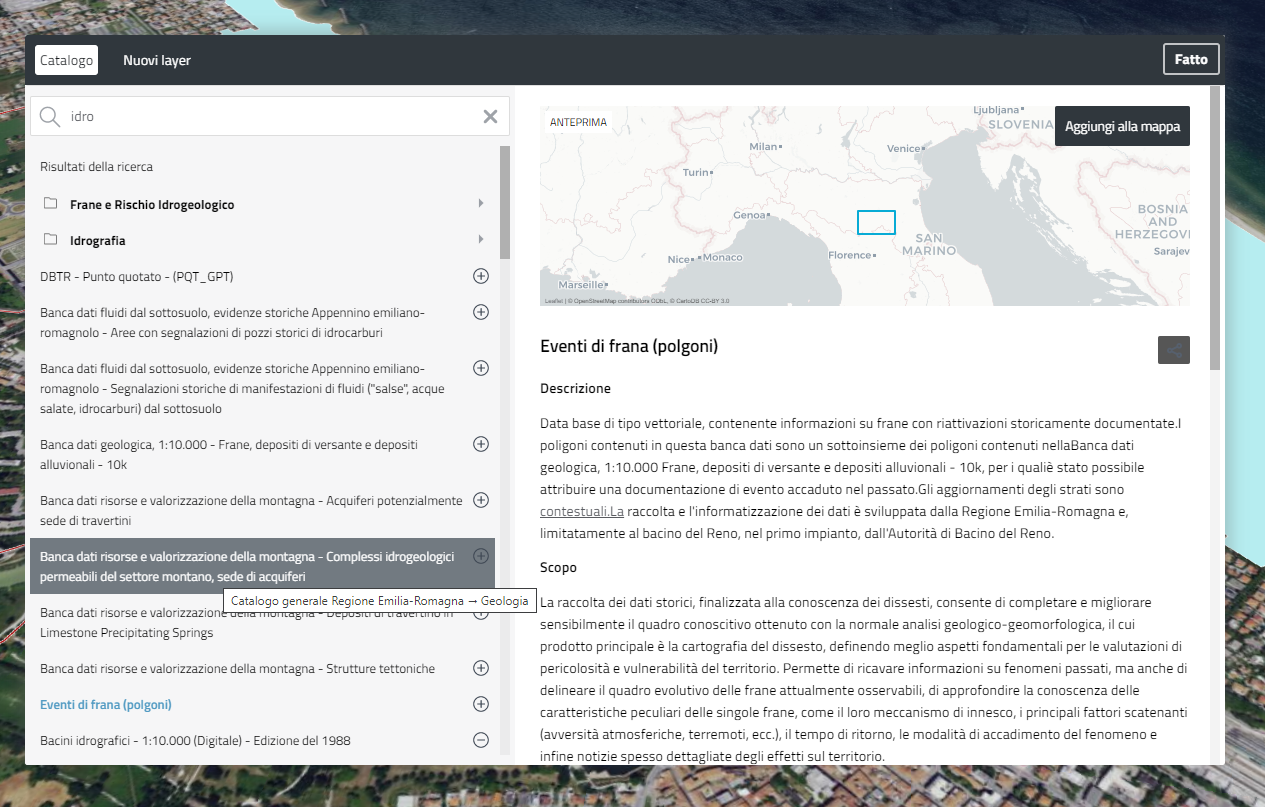
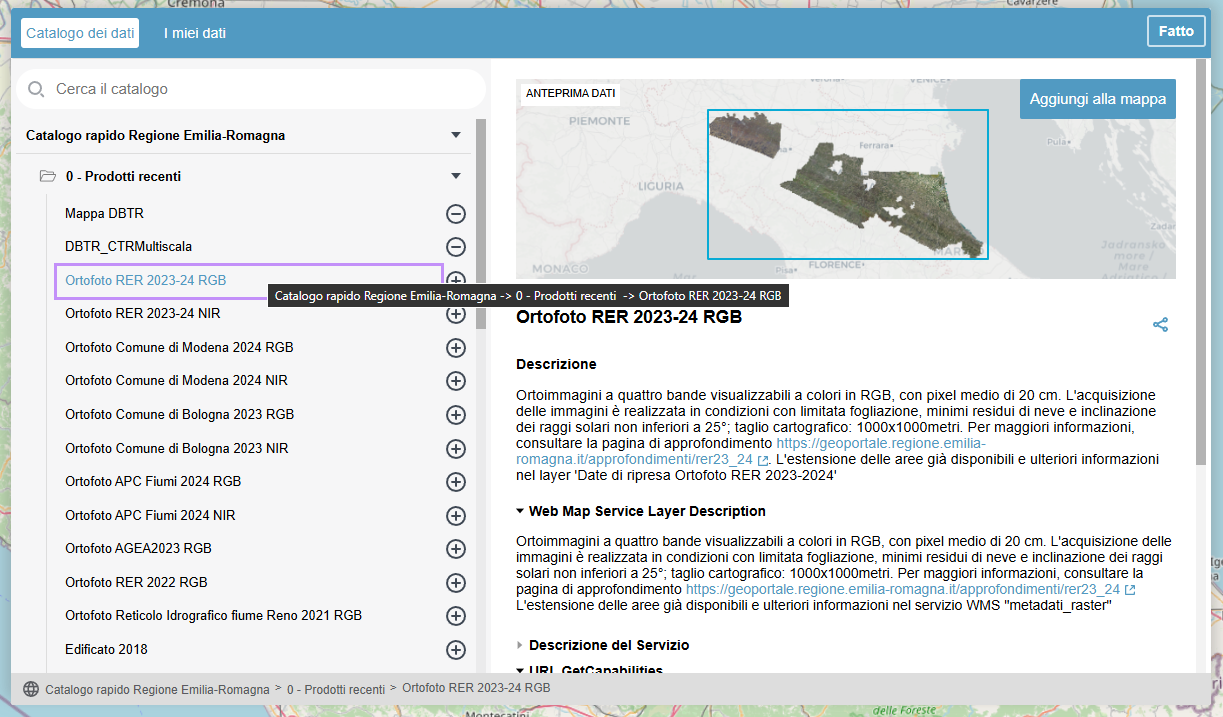
Replaced the Data Catalog image and fix a typo error in Data Catalogue HTML doc.

diff --git a/wwwroot/help/data-catalogue.html b/wwwroot/help/data-catalogue.html
@@ -100,7 +100,7 @@
 
       <img src="img/data-catalogue_rer.png" class="screenshot img-responsive" alt="screenshot of the Data Catalogue">
 
-      <p>Il Catalogo rende facilmente fruibili tantissimi dati, regionali e non. Per aprirlo, cliccare sul bottone <strong>Catalogo</strong> nel pannello a sinistra della mappa.</p>
+      <p>Il Catalogo rende facilmente fruibili tantissimi dati, regionali e non. Per aprirlo, cliccare sul bottone <strong>Esplora i dati</strong> nel pannello a sinistra della mappa.</p>
 
       <p>I layer pubblicati nel Catalogo sono composti da dati di proprietà o in uso alla Regione Emilia-Romagna oppure messi gratuitamente a disposizione da altre realtà (ad esempio ARPAE). I dati non sono salvati in rer3d-map.
       </p>
